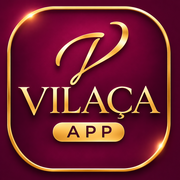
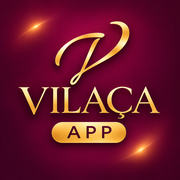
Icone novo, primeiro acesso com senha padrao, termo

diff --git a/index.html b/index.html
@@ -757,10 +757,10 @@
   }
 </style>
   <!-- PWA e ícones Vilaça Joias -->
-  <link rel="icon" type="image/png" sizes="32x32" href="/favicon-32.png?v=4">
-  <link rel="icon" type="image/png" sizes="64x64" href="/favicon-64.png?v=4">
-  <link rel="apple-touch-icon" sizes="180x180" href="/apple-touch-icon.png?v=4">
-  <link rel="manifest" href="/manifest.json?v=4">
+  <link rel="icon" type="image/png" sizes="32x32" href="/favicon-32.png?v=6">
+  <link rel="icon" type="image/png" sizes="64x64" href="/favicon-64.png?v=6">
+  <link rel="apple-touch-icon" sizes="180x180" href="/apple-touch-icon.png?v=6">
+  <link rel="manifest" href="/manifest.json?v=6">
   <meta name="theme-color" content="#550127">
   <meta name="apple-mobile-web-app-capable" content="yes">
   <meta name="apple-mobile-web-app-status-bar-style" content="black-translucent">
@@ -772,13 +772,18 @@
 
 <div id="loginView">
   <div class="login-card">
-    <img src="logo-app.webp?v=5" alt="Vilaça App" style="width:132px; height:132px; display:block; margin:0 auto 20px;">
+    <img src="logo-app.webp?v=6" alt="Vilaça App" style="width:132px; height:132px; display:block; margin:0 auto 20px;">
     <div class="login-title">VILAÇA APP</div>
     <p class="login-sub">Use seu apelido e sua senha.</p>
     <div class="login-error" id="loginError" role="alert">Usuário ou senha incorretos. Confira e tente de novo.</div>
     <div class="field"><label>Usuário</label><input type="text" id="loginUser" placeholder="Seu apelido" autocomplete="username" autocapitalize="characters"></div>
     <div class="field"><label>Senha</label><input type="password" id="loginPass" placeholder="••••••••" autocomplete="current-password"></div>
+    <div class="field" id="paNovaWrap" style="display:none"><label>Nova senha (mín. 6 caracteres)</label><input type="password" id="paNova" placeholder="Crie sua nova senha" autocomplete="new-password"></div>
+    <div class="field" id="paConfWrap" style="display:none"><label>Repita a nova senha</label><input type="password" id="paConf" placeholder="Repita a nova senha" autocomplete="new-password"></div>
     <button class="btn btn-accent btn-block" id="btnLogin">Entrar</button>
+    <div id="paAviso" style="margin-top:14px;padding:10px 12px;border-radius:8px;background:var(--surface-2,#f4eef1);font-size:12.5px;line-height:1.5;text-align:center;color:var(--muted);">
+      <strong>Primeiro acesso?</strong> A senha padrão é <strong>123456</strong>.<br><a href="#" id="paLink" style="color:var(--accent,#550127);font-weight:600;">Toque aqui para criar sua senha</a>
+    </div>
     <div class="login-rodape">VILAÇA APP</div>
   </div>
 </div>
@@ -832,7 +837,7 @@
   <div class="sidebar-overlay" id="sidebarOverlay"></div>
   <aside class="sidebar" id="sidebarEl">
     <div class="sidebar-brand">
-      <img src="/logo-v.png?v=4" alt="Vilaça" style="width:38px; height:38px; border-radius:10px; object-fit:cover;">
+      <img src="/logo-v.png?v=6" alt="Vilaça" style="width:38px; height:38px; border-radius:10px; object-fit:cover;">
       <div class="brand-texto"><b class="brand-app">VILAÇA APP</b></div>
       <button type="button" class="sidebar-colapsar" id="btnColapsarSidebar" title="Recolher menu" aria-label="Recolher menu"><svg class="ico" viewBox="0 0 24 24" fill="none" stroke="currentColor" stroke-width="2" stroke-linecap="round" stroke-linejoin="round" aria-hidden="true"><path d="m11 17-5-5 5-5"/><path d="m18 17-5-5 5-5"/></svg></button>
     </div>
@@ -1461,8 +1466,30 @@ function podeVerModulo(m){
   }
   return currentPermissoes[m.id] && currentPermissoes[m.id].ativo;
 }
-document.getElementById('btnLogin').addEventListener('click', doLogin);
-document.getElementById('loginPass').addEventListener('keydown', e=>{ if(e.key==='Enter') doLogin(); });
+let __modoPrimeiro = false;
+function modoPrimeiroAcesso(on, usuario){
+  __modoPrimeiro = !!on;
+  const g = id=>document.getElementById(id);
+  g('paNovaWrap').style.display = g('paConfWrap').style.display = on ? '' : 'none';
+  g('paAviso').style.display = on ? 'none' : '';
+  g('btnLogin').textContent = on ? 'Salvar nova senha e continuar' : 'Entrar';
+  g('loginError').classList.remove('show');
+  const sub = document.querySelector('#loginView .login-sub');
+  if(on){
+    if(usuario) g('loginUser').value = usuario;
+    g('loginPass').type = 'text'; g('loginPass').value = '123456'; g('loginPass').readOnly = true;
+    if(sub) sub.textContent = 'Este é o seu primeiro acesso. Senha padrão: 123456. Crie agora a sua nova senha.';
+    setTimeout(()=>g('paNova').focus(),50);
+  } else {
+    g('loginPass').type = 'password'; g('loginPass').value = ''; g('loginPass').readOnly = false;
+    g('paNova').value = ''; g('paConf').value = '';
+    if(sub) sub.textContent = 'Use seu apelido e sua senha.';
+  }
+}
+document.getElementById('paLink').addEventListener('click', e=>{ e.preventDefault(); modoPrimeiroAcesso(true, document.getElementById('loginUser').value.trim()); if(!document.getElementById('loginUser').value.trim()) document.getElementById('loginUser').focus(); });
+document.getElementById('btnLogin').addEventListener('click', ()=> __modoPrimeiro ? doPrimeiroAcesso() : doLogin());
+document.getElementById('loginPass').addEventListener('keydown', e=>{ if(e.key==='Enter') (__modoPrimeiro?doPrimeiroAcesso():doLogin()); });
+document.getElementById('paConf').addEventListener('keydown', e=>{ if(e.key==='Enter') doPrimeiroAcesso(); });
 document.getElementById('loginUser').addEventListener('keydown', e=>{ if(e.key==='Enter') document.getElementById('loginPass').focus(); });
 
 async function doLogin(){
@@ -1477,6 +1504,7 @@ async function doLogin(){
   btn.disabled = true; btn.textContent = 'Entrando...';
   const r = await gatewayLogin(usuario, pass);
   btn.disabled = false; btn.textContent = 'Entrar';
+  if(r && r.primeiroAcesso){ modoPrimeiroAcesso(true, r.usuario || usuario); return; }
   if(!r || !r.ok){
     if(r && r.bloqueado){
       err.textContent = 'Acesso bloqueado após 6 tentativas erradas. Peça à diretoria pra desbloquear no Departamento Pessoal.';
@@ -1489,6 +1517,28 @@ async function doLogin(){
     document.getElementById('loginPass').value = '';
     return;
   }
+  await finalizarLogin(r);
+}
+async function doPrimeiroAcesso(){
+  const g = id=>document.getElementById(id);
+  const err = g('loginError'), btn = g('btnLogin');
+  const usuario = g('loginUser').value.trim(), nova = g('paNova').value, conf = g('paConf').value;
+  const erro = m=>{ err.textContent = m; err.classList.add('show'); };
+  if(!usuario) return erro('Informe o seu usuário (apelido).');
+  if(nova.length < 6) return erro('A nova senha precisa ter pelo menos 6 caracteres.');
+  if(nova === '123456') return erro('Escolha uma senha diferente da senha padrão.');
+  if(nova !== conf) return erro('As duas senhas não são iguais.');
+  err.classList.remove('show');
+  btn.disabled = true; btn.textContent = 'Salvando...';
+  const r = await gatewayCall({ op:'primeiroAcesso', usuario, senha:'123456', novaSenha: nova });
+  btn.disabled = false; btn.textContent = 'Salvar nova senha e continuar';
+  if(!r || !r.ok){ erro((r && r.erro) || 'Não foi possível salvar. Tente de novo.'); return; }
+  const tok = r.token;
+  modoPrimeiroAcesso(false);
+  await finalizarLogin(r);
+}
+async function finalizarLogin(r){
+  const err = document.getElementById('loginError');
   if(!(await exigirTermos(r.token))){
     await sairPorRecusaTermos(r.token);
     document.getElementById('loginPass').value = '';
@@ -6830,10 +6880,10 @@ function imprimirEtiquetaProduto(produto){
   .etq-preco{ font-weight:700; font-size:${px.preco}px; margin-top:2px; }${cssDobravel}
 </style>
   <!-- PWA e ícones Vilaça Joias -->
-  <link rel="icon" type="image/png" sizes="32x32" href="/favicon-32.png?v=4">
-  <link rel="icon" type="image/png" sizes="64x64" href="/favicon-64.png?v=4">
-  <link rel="apple-touch-icon" sizes="180x180" href="/apple-touch-icon.png?v=4">
-  <link rel="manifest" href="/manifest.json?v=4">
+  <link rel="icon" type="image/png" sizes="32x32" href="/favicon-32.png?v=6">
+  <link rel="icon" type="image/png" sizes="64x64" href="/favicon-64.png?v=6">
+  <link rel="apple-touch-icon" sizes="180x180" href="/apple-touch-icon.png?v=6">
+  <link rel="manifest" href="/manifest.json?v=6">
   <meta name="theme-color" content="#550127">
   <meta name="apple-mobile-web-app-capable" content="yes">
   <meta name="apple-mobile-web-app-status-bar-style" content="black-translucent">

diff --git a/db-gateway-v62.ts b/db-gateway-v62.ts
@@ -1,3 +1,5 @@
+// db-gateway v63
+// v63: PRIMEIRO ACESSO. users[].primeiroAcesso (+hashPadrao) => entra com a senha padrão 123456 e é obrigado a criar a nova (op primeiroAcesso). A senha padrão NÃO fica gravada como hash: só vale enquanto senhaHash===hashPadrao (hash aleatório), então outras funções que conferem hash nunca aceitam 123456.
 // db-gateway v62
 // v62: VELOCIDADE. (1) a config (46 kB) é lida do cache de 4s nas operações só de leitura (antes, TODA chamada ia ao banco buscá-la);
 //      login/logout/saveConfig/loja extra seguem lendo fresco. (2) selectAll busca as páginas EM PARALELO (antes: uma depois da outra).
@@ -49,7 +51,7 @@ const MAX_TENTATIVAS_OUTRA_LOJA = 5;
 // tabelas que entram na auditoria de gravação/exclusão (kv de autosave e memória da IA ficam de fora: só geram ruído)
 const AUDITAR_TABELAS = ["vendas_pdv","ordens_servico","orcamentos","produtos_estoque","clientes_cadastro","gastos","gastos_fixos","dp_funcionarios","dp_registros","transferencias_controle","reposicao_controle","envio_diretoria_controle","gravacoes_pedidos","marketing_mensagens"];
 const CAMPOS_ACESSO_USER = ["nivel","lojas","permissoes","funcaoId","ajustes"];
-const CAMPOS_PROTEGIDOS_USER = ["senha","senhaHash","sessaoExpiraEm","sessoes","tentativasFalhas","bloqueado","bloqueadoEm"];
+const CAMPOS_PROTEGIDOS_USER = ["primeiroAcesso","hashPadrao","senha","senhaHash","sessaoExpiraEm","sessoes","tentativasFalhas","bloqueado","bloqueadoEm"];
 
 const CORS_HEADERS = {
   "Access-Control-Allow-Origin": "*",
@@ -176,6 +178,8 @@ function usuariosPorNome(config: any, usuario: any): any[] {
     return nomes.includes(alvo);
   });
 }
+const SENHA_PADRAO = "123456";
+function emPrimeiroAcesso(u: any): boolean { return !!(u && u.primeiroAcesso===true && u.hashPadrao && u.senhaHash===u.hashPadrao && !u.bloqueado); }
 function gerarTokenSessao(): string {
   const bytes = new Uint8Array(32); crypto.getRandomValues(bytes);
   return "sess_"+Array.from(bytes).map((b)=>b.toString(16).padStart(2,"0")).join("");
@@ -308,7 +312,7 @@ Deno.serve(async (req: Request) => {
   if (!op) return json({error:"operação obrigatória"},400);
 
   try {
-    const OPS_ESCRITA_CONFIG = ["login","logout","entrarOutraLoja","voltarMinhaLoja","saveConfig","mergeConfigKey"];
+    const OPS_ESCRITA_CONFIG = ["primeiroAcesso","login","logout","entrarOutraLoja","voltarMinhaLoja","saveConfig","mergeConfigKey"];
     const config = await getConfigPayload(OPS_ESCRITA_CONFIG.includes(op));
 
     if (op==="login") {
@@ -317,6 +321,7 @@ Deno.serve(async (req: Request) => {
       const candidatos = usuariosPorNome(config,usuario);
       if (candidatos.length===0) return json({ok:false});
       if (candidatos.every((u: any)=>u.bloqueado)) return json({ok:false,bloqueado:true});
+      if (String(senha)===SENHA_PADRAO) { const pa = candidatos.find((u: any)=>emPrimeiroAcesso(u)); if (pa) return json({ok:false,primeiroAcesso:true,usuario:pa.apelido||pa.nome||String(usuario)}); }
       let achado: any = null;
       for (const u of candidatos) { if (u.bloqueado||!u.senhaHash) continue; if (bcrypt.compareSync(String(senha),u.senhaHash)){achado=u;break;} }
       if (!achado) {
@@ -353,6 +358,27 @@ Deno.serve(async (req: Request) => {
         await salvarConfigPayload(config);
       }
       return json({ok:true});
+    }
+
+    if (op==="primeiroAcesso") {
+      const usuario = body.usuario; const nova = String(body.novaSenha||"");
+      if (!usuario) return json({ok:false,erro:"Informe o usuário."});
+      const cands = usuariosPorNome(config,usuario);
+      const alvo = cands.find((u: any)=>emPrimeiroAcesso(u));
+      if (!alvo||String(senha)!==SENHA_PADRAO) {
+        for (const u of cands) { if (u.bloqueado) continue; u.tentativasFalhas=(Number(u.tentativasFalhas)||0)+1; if (u.tentativasFalhas>=MAX_TENTATIVAS){u.bloqueado=true;u.bloqueadoEm=new Date().toISOString();derrubarTodasSessoes(u);} }
+        if (cands.length) await salvarConfigPayload(config);
+        return json({ok:false,erro:"Primeiro acesso não disponível para este usuário. Use sua senha atual para entrar."});
+      }
+      if (nova.length<6) return json({ok:false,erro:"A nova senha precisa ter pelo menos 6 caracteres."});
+      if (nova===SENHA_PADRAO) return json({ok:false,erro:"Escolha uma senha diferente da senha padrão."});
+      if (normalizarUsuario(nova)===normalizarUsuario(usuario)) return json({ok:false,erro:"A senha não pode ser igual ao usuário."});
+      alvo.senhaHash = bcrypt.hashSync(nova,10);
+      delete alvo.hashPadrao; delete alvo.primeiroAcesso; alvo.tentativasFalhas=0;
+      const s = abrirSessao(alvo,req.headers.get("user-agent"));
+      await salvarConfigPayload(config);
+      await auditar(alvo,s.token,{acao:"primeiro_acesso",modulo:"Acesso",resumo:"Criou a nova senha no primeiro acesso"},req);
+      return json({ok:true,token:s.token,expiraEm:s.exp,user:userPublico(alvo,s.token)});
     }
 
     const userBase = findUserBySenha(config,senha);
@@ -405,7 +431,7 @@ Deno.serve(async (req: Request) => {
 
     if (op==="getConfig") {
       const out = JSON.parse(JSON.stringify(config));
-      if (Array.isArray(out.users)) out.users=out.users.map((u: any)=>{const{senha:_s,senhaHash:_h,sessaoExpiraEm:_e,sessoes:_ss,...resto}=u;return resto;});
+      if (Array.isArray(out.users)) out.users=out.users.map((u: any)=>{const{senha:_s,senhaHash:_h,sessaoExpiraEm:_e,sessoes:_ss,hashPadrao:_hp,...resto}=u;return resto;});
       if (Array.isArray(out.funcionarios)) out.funcionarios=out.funcionarios.map((f: any)=>{const{senha:_s,senhaHash:_h,...resto}=f;return resto;});
       return json({data:out});
     }
@@ -440,7 +466,7 @@ Deno.serve(async (req: Request) => {
       const novoLojas=Array.isArray(payload.lojas)?payload.lojas:[];
       if (atualUsers.length>0&&novoUsers.length===0) return json({error:"salvamento bloqueado: a configuração enviada apagaria os usuários. Recarregue a página e tente de novo."},409);
       if (atualLojas.length>0&&novoLojas.length===0) return json({error:"salvamento bloqueado: a configuração enviada apagaria as lojas. Recarregue a página e tente de novo."},409);
-      if (novoUsers.length>0) payload.users=novoUsers.map((u: any)=>{if(!u)return u;const atual=atualUsers.find((a: any)=>a.id===u.id);const saida: any={...u};for(const campo of CAMPOS_PROTEGIDOS_USER){if(atual&&campo in atual)saida[campo]=atual[campo];else delete saida[campo];}if(!ehDiretoria){for(const campo of CAMPOS_ACESSO_USER){if(atual&&campo in atual)saida[campo]=atual[campo];else delete saida[campo];}if(!atual)saida.nivel="vendedora";}return saida;});
+      if (novoUsers.length>0) payload.users=novoUsers.map((u: any)=>{if(!u)return u;const atual=atualUsers.find((a: any)=>a.id===u.id);const saida: any={...u};for(const campo of CAMPOS_PROTEGIDOS_USER){if(atual&&campo in atual)saida[campo]=atual[campo];else delete saida[campo];}if(!ehDiretoria){for(const campo of CAMPOS_ACESSO_USER){if(atual&&campo in atual)saida[campo]=atual[campo];else delete saida[campo];}if(!atual)saida.nivel="vendedora";}if(!atual){const h=bcrypt.hashSync(crypto.randomUUID(),8);saida.senhaHash=h;saida.hashPadrao=h;saida.primeiroAcesso=true;}return saida;});
       if (!ehDiretoria) payload.funcoesAcesso=config.funcoesAcesso;
       if (Array.isArray(payload.funcionarios)) payload.funcionarios=payload.funcionarios.map((f: any)=>{if(!f)return f;const{senha:_s,senhaHash:_h,...resto}=f;return resto;});
       for (const k of ["atendimentoInstancias"]) if (config[k]!==undefined&&payload[k]===undefined) payload[k]=config[k];

diff --git a/via.html b/via.html
@@ -7,7 +7,7 @@
 <meta name="robots" content="noindex">
 <meta property="og:type" content="website">
 <meta property="og:site_name" content="Vilaça Joias">
-<meta property="og:image" content="https://vilaca.app/logo-vilaca.webp">
+<meta property="og:image" content="https://vilaca.app/logo-vilaca.webp?v=6">
 <meta property="og:title" content="Sua via — Vilaça Joias">
 <meta name="theme-color" content="#F3F5F8">
 <script>
@@ -111,7 +111,7 @@ try{ if(window.matchMedia && matchMedia('(prefers-color-scheme: dark)').matches)
   function esc(s){ return (s==null?"":String(s)).replace(/[&<>"']/g,c=>({"&":"&amp;","<":"&lt;",">":"&gt;",'"':"&quot;","'":"&#39;"}[c])); }
   function brl(v){ return "R$ "+Number(v||0).toLocaleString("pt-BR",{minimumFractionDigits:2,maximumFractionDigits:2}); }
   function fmtDate(s){ if(!s) return "—"; const a=String(s).slice(0,10).split("-"); return a.length===3?a[2]+"/"+a[1]+"/"+a[0]:s; }
-  const marca = `<div class="brand"><img src="logo-vilaca.webp?v=4" alt="Vilaça Joias"></div>`;
+  const marca = `<div class="brand"><img src="logo-vilaca.webp?v=6" alt="Vilaça Joias"></div>`;
   function erro(m){ document.getElementById("card").innerHTML = marca + `<div class="error" role="alert">${esc(m)}</div>`; }
   function render(v){
     const titulo = tipo === "orc" ? "Seu orçamento" : tipo === "res" ? "Sua reserva" : "Sua compra";

diff --git a/acompanhar.html b/acompanhar.html
@@ -7,7 +7,7 @@
 <meta name="robots" content="noindex">
 <meta property="og:type" content="website">
 <meta property="og:site_name" content="Vilaça Joias">
-<meta property="og:image" content="https://vilaca.app/logo-vilaca.webp">
+<meta property="og:image" content="https://vilaca.app/logo-vilaca.webp?v=6">
 <meta property="og:title" content="Acompanhe sua ordem de serviço — Vilaça Joias">
 <meta name="theme-color" content="#F3F5F8">
 <script>
@@ -112,7 +112,7 @@ try{ if(window.matchMedia && matchMedia('(prefers-color-scheme: dark)').matches)
     return `${partes[2]}/${partes[1]}/${partes[0]}`;
   }
   function ico(nome, tam){ return window.Icone ? Icone(nome, { tam: tam || 16 }) : ""; }
-  function marcaHtml(){ return `<div class="brand"><img src="logo-vilaca.webp?v=4" alt="Vilaça Joias"></div>`; }
+  function marcaHtml(){ return `<div class="brand"><img src="logo-vilaca.webp?v=6" alt="Vilaça Joias"></div>`; }
   // Etapa atual da via, do jeito que o cliente entende (sem histórico).
   const ETAPAS = {
     aguardando:      { cls:"aguardando", ico:"relogio",    titulo:"Recebido na loja",          texto:"Sua peça foi recebida e está na fila para o serviço." },

diff --git a/acompanhar-gravacao.html b/acompanhar-gravacao.html
@@ -7,7 +7,7 @@
 <meta name="robots" content="noindex">
 <meta property="og:type" content="website">
 <meta property="og:site_name" content="Vilaça Joias">
-<meta property="og:image" content="https://vilaca.app/logo-vilaca.webp">
+<meta property="og:image" content="https://vilaca.app/logo-vilaca.webp?v=6">
 <meta property="og:title" content="Acompanhe sua gravação — Vilaça Joias">
 <meta name="theme-color" content="#F3F5F8">
 <script>
@@ -117,7 +117,7 @@ try{ if(window.matchMedia && matchMedia('(prefers-color-scheme: dark)').matches)
     return "R$ " + Number(v||0).toFixed(2).replace(".", ",");
   }
   function ico(nome, tam){ return window.Icone ? Icone(nome, { tam: tam || 16 }) : ""; }
-  function marcaHtml(){ return `<div class="brand"><img src="logo-vilaca.webp?v=4" alt="Vilaça Joias"></div>`; }
+  function marcaHtml(){ return `<div class="brand"><img src="logo-vilaca.webp?v=6" alt="Vilaça Joias"></div>`; }
   function statusIcone(s){
     return ico(s==="pronto" ? "check" : s==="entregue" ? "pacote" : s==="cancelado" ? "cancelar" : "relogio", 18);
   }

diff --git a/cadastro-funcionario.html b/cadastro-funcionario.html
@@ -5,7 +5,7 @@
 <meta name="viewport" content="width=device-width, initial-scale=1.0">
 <meta property="og:type" content="website">
 <meta property="og:site_name" content="Vilaça Joias">
-<meta property="og:image" content="https://vilaca.app/logo-vilaca.webp">
+<meta property="og:image" content="https://vilaca.app/logo-vilaca.webp?v=6">
 <meta property="og:title" content="Cadastro de funcionário — Vilaça Joias">
 <title>Complete seu cadastro · Vilaça Joias</title>
 <meta name="robots" content="noindex">
@@ -54,7 +54,7 @@ input, select{width:100%; padding:10px 12px; border:1px solid var(--line-strong)
 </head>
 <body>
 <div class="card" id="card">
-  <img class="logo" src="logo-vilaca.webp?v=4" alt="Vilaça Joias">
+  <img class="logo" src="logo-vilaca.webp?v=6" alt="Vilaça Joias">
   <h1 id="titulo">Complete seu cadastro</h1>
   <p class="sub" id="subtitulo">Conferindo o seu link…</p>
   <div class="msg" id="msgErro" role="alert"></div>

diff --git a/advertencia.html b/advertencia.html
@@ -5,7 +5,7 @@
 <meta name="viewport" content="width=device-width, initial-scale=1.0">
 <meta property="og:type" content="website">
 <meta property="og:site_name" content="Vilaça Joias">
-<meta property="og:image" content="https://vilaca.app/logo-vilaca.webp">
+<meta property="og:image" content="https://vilaca.app/logo-vilaca.webp?v=6">
 <meta property="og:title" content="Advertência — Vilaça Joias">
 <title>Advertência · Vilaça Joias</title>
 <meta name="robots" content="noindex">
@@ -36,7 +36,7 @@ h1{font-size:21px; font-weight:700; letter-spacing:-.015em; margin:0 0 16px; tex
 </head>
 <body>
 <div class="card" id="card">
-  <img class="logo" src="logo-vilaca.webp?v=4" alt="Vilaça Joias">
+  <img class="logo" src="logo-vilaca.webp?v=6" alt="Vilaça Joias">
   <h1 id="titulo">Carregando…</h1>
   <div id="conteudo"><p class="loading">Só um instante…</p></div>
   <div class="rodape">Vilaça Joias · Departamento Pessoal</div>

diff --git a/definir-senha.html b/definir-senha.html
@@ -5,7 +5,7 @@
 <meta name="viewport" content="width=device-width, initial-scale=1.0">
 <meta property="og:type" content="website">
 <meta property="og:site_name" content="Vilaça Joias">
-<meta property="og:image" content="https://vilaca.app/logo-vilaca.webp">
+<meta property="og:image" content="https://vilaca.app/logo-vilaca.webp?v=6">
 <meta property="og:title" content="Definir senha — Vilaça Joias">
 <title>Definir senha · Vilaça Joias</title>
 <meta name="robots" content="noindex">
@@ -37,7 +37,7 @@ input{width:100%; padding:11px 12px; border:1px solid var(--line-strong); border
 </head>
 <body>
 <div class="card" id="card">
-  <img class="logo" src="logo-vilaca.webp?v=4" alt="Vilaça Joias">
+  <img class="logo" src="logo-vilaca.webp?v=6" alt="Vilaça Joias">
   <h1 id="titulo">Definir senha</h1>
   <p class="sub" id="subtitulo">Conferindo o seu link…</p>
   <div class="msg" id="msgErro" role="alert"></div>

diff --git a/reforma.html b/reforma.html
@@ -216,7 +216,7 @@ function aplicarMarca(m){
   document.title = 'Reforma de joias — ' + c.nome;
   const tc = document.querySelector('meta[name="theme-color"]'); if(tc) tc.setAttribute('content', c.cor);
   document.querySelectorAll('.marcaNome').forEach(e=>e.textContent = c.nome);
-  const lg = document.getElementById('marcaLogo'); if(lg){ lg.src = MARCA==='vilaca' ? 'logo-vilaca.webp' : 'logo-reforma.svg'; lg.alt = c.nome; }
+  const lg = document.getElementById('marcaLogo'); if(lg){ lg.src = MARCA==='vilaca' ? 'logo-vilaca.webp?v=6' : 'logo-reforma.svg'; lg.alt = c.nome; }
   document.querySelectorAll('.marcaSite').forEach(e=>e.href = c.site);
 }
 function nomeLoja(l){ if(!l) return ''; for(const k in MARCAS){ if(MARCAS[k].lojas[l.id]) return MARCAS[k].lojas[l.id]; } return l.nome||''; }

diff --git a/sw.js b/sw.js
@@ -1,7 +1,7 @@
 // Service Worker — Vilaça Joias Gestão e Controle
 // Versão mínima: registra o app como PWA instalável.
 // NÃO faz cache de dados (o app busca dados frescos do Supabase a cada uso).
-const CACHE_NAME = 'vilaca-gestao-v4';
+const CACHE_NAME = 'vilaca-gestao-v6';
 
 self.addEventListener('install', (event) => {
   // Ativa imediatamente, sem esperar o fechamento de outras abas
